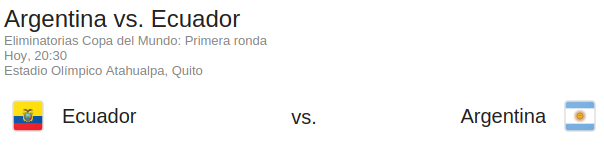
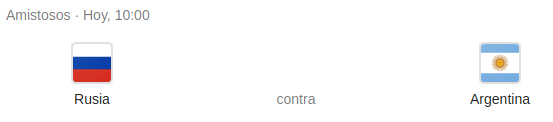
update media

diff --git a/view/html/media/tv/evento.html b/view/html/media/tv/evento.html
@@ -4,6 +4,6 @@
 <param name="wmode" value="opaque" /></object>
 <script type="text/javascript">
 jwplayer("player_421").setup({
-file: "https://tycsportsalive-a.akamaihd.net/c41ec80e4a374413ac3671a947f0994c/sa-east-1/5395474896001/profile_0/chunklist.m3u8",
+file: "https://tycsportsalive-a.akamaihd.net/04b88888355f40e8b2280529a7d143d1/sa-east-1/5395474896001/profile_1/chunklist.m3u8",
 title: "TyC Sports - colgado.TV",width: "900",height: "506",stretching: "exactfit",autostart: "true"});
 </script>

diff --git a/view/html/media/tv/tycsports.html b/view/html/media/tv/tycsports.html
@@ -4,6 +4,6 @@
 <param name="wmode" value="opaque" /></object>
 <script type="text/javascript">
 jwplayer("player_421").setup({
-file: "https://tycsportsalive-a.akamaihd.net/32eae18ec5604a918a4f249edab0f4ae/sa-east-1/5395474896001/profile_0/chunklist.m3u8",
+file: "https://tycsportsalive-a.akamaihd.net/04b88888355f40e8b2280529a7d143d1/sa-east-1/5395474896001/profile_1/chunklist.m3u8",
 title: "TyC Sports - colgado.TV",width: "900",height: "506",stretching: "exactfit",autostart: "true"});
 </script>

diff --git a/controller/event.php b/controller/event.php
@@ -1,8 +1,8 @@
 <?php
 $event=[
-'title'=>'ECUADOR - ARGENTINA',
+'title'=>'RUSIA - ARGENTINA',
 'banner'=>'/view/imgs/evento.png',
-'beginDate'=>'10/10/2017 18:00',
-'endDate'=>'10/10/2017 23:00'
+'beginDate'=>'11/11/2017 08:00',
+'endDate'=>'11/11/2017 12:00'
 ];
 ?>
